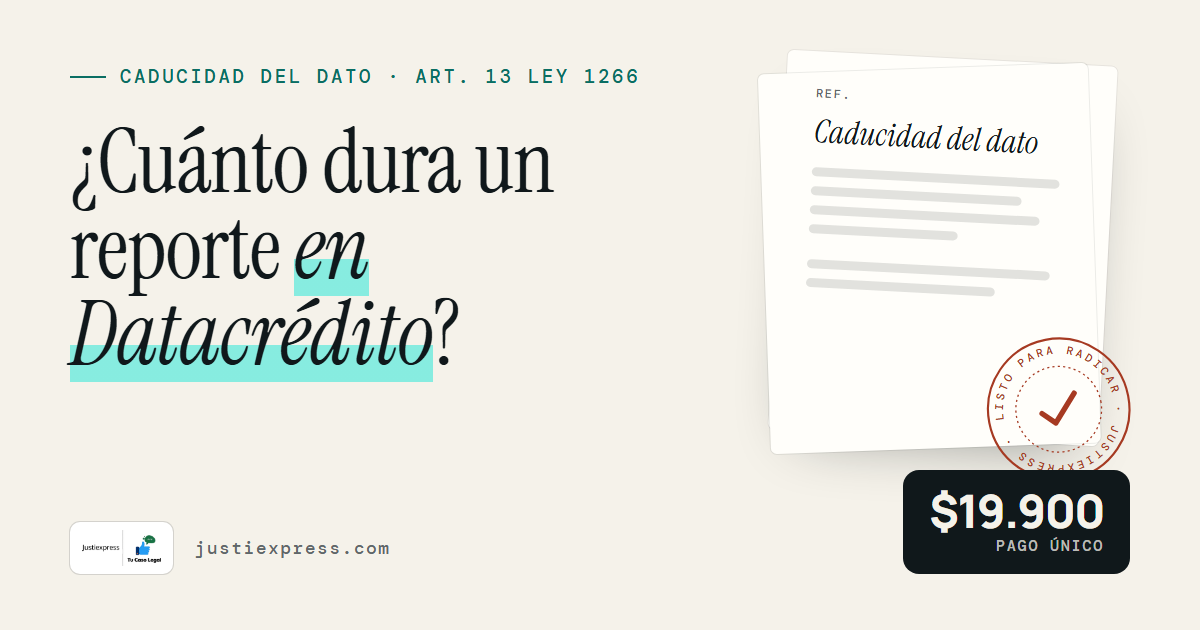
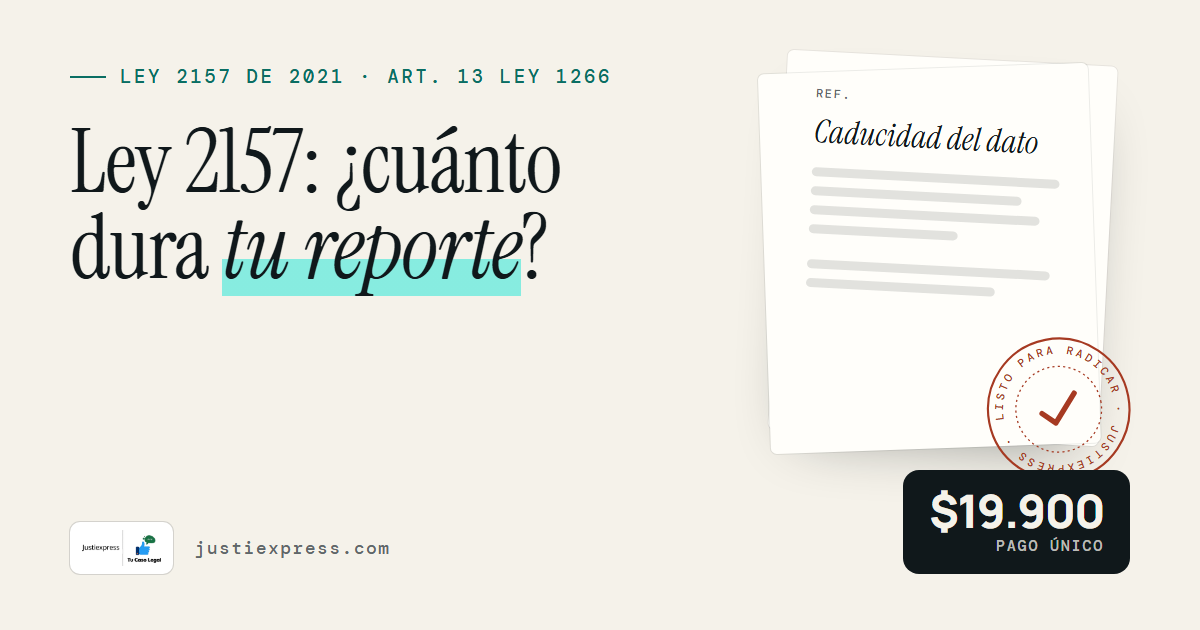
Página 5 rescatada para «ley 2157 de 2021»: título, H1, sección con lo que dice la ley y 4 preguntas nuevas
Medido: ley 2157 de 2021 2.900/mes (+18 %), ley 2157 720 (+130 %), borrón y cuenta nueva en caída.
La URL no cambia (ya indexada). Verificado contra el texto del Senado: arts. 2-10 y 14 de la ley
y los numerales 7 y 8 del art. 16 de la Ley 1266 (modificados por la Ley 2573 de 2026).

Changed region(s): [[0.0308, 0.181, 0.4625, 0.6333], [0.0925, 0.0905, 0.5242, 0.1508]]

diff --git a/caducidad-reporte-datacredito/index.html b/caducidad-reporte-datacredito/index.html
@@ -3,9 +3,9 @@
 <head>
   <meta charset="UTF-8" />
   <meta name="viewport" content="width=device-width, initial-scale=1, viewport-fit=cover" />
-  <title>Cuánto dura un reporte en Datacrédito | Justiexpress</title>
-  <meta name="description" content="Cuánto dura un reporte negativo en Datacrédito: el doble de la mora si pagaste, con máximo 4 años, y caducidad a los 8 años si no. Reclama por $19.900 COP." />
-  <meta name="keywords" content="cuanto dura un reporte negativo en datacredito, caducidad reporte datacredito, a los cuantos años se quita el reporte de datacredito, 8 años datacredito, borron y cuenta nueva" />
+  <title>Ley 2157 de 2021: cuánto dura un reporte | Justiexpress</title>
+  <meta name="description" content="Qué dice la Ley 2157 de 2021: el reporte negativo dura el doble de la mora (máx. 4 años) o caduca a los 8 años. Reclama lo que ya caducó por $19.900 COP." />
+  <meta name="keywords" content="ley 2157 de 2021, ley 2157, que dice la ley 2157 de 2021, cuanto dura un reporte negativo en datacredito, caducidad reporte datacredito, a los cuantos años se quita el reporte de datacredito, 8 años datacredito, borron y cuenta nueva, ley borron y cuenta nueva" />
   <link rel="canonical" href="https://www.justiexpress.com/caducidad-reporte-datacredito/" />
   <meta name="robots" content="index, follow, max-snippet:-1, max-image-preview:large, max-video-preview:-1" />
   <meta name="theme-color" content="#F5F2EA" />
@@ -14,19 +14,19 @@
 
   <meta property="og:type" content="article" />
   <meta property="og:url" content="https://www.justiexpress.com/caducidad-reporte-datacredito/" />
-  <meta property="og:title" content="¿Cuánto dura un reporte negativo en Datacrédito? | Justiexpress" />
-  <meta property="og:description" content="Las dos reglas de la ley, con ejemplos, y qué hacer si ya se cumplió el término y sigues reportado. Reclama en minutos por $19.900 COP." />
+  <meta property="og:title" content="Ley 2157 de 2021: cuánto dura un reporte | Justiexpress" />
+  <meta property="og:description" content="Lo que cambió la Ley 2157 de 2021, las dos reglas de caducidad con ejemplos y qué hacer si ya se cumplió el término. Reclama en minutos por $19.900 COP." />
   <meta property="og:image" content="https://www.justiexpress.com/og/caducidad.png" />
   <meta property="og:image:width" content="1200" />
   <meta property="og:image:height" content="630" />
-  <meta property="og:image:alt" content="Cuánto dura un reporte negativo en Datacrédito" />
+  <meta property="og:image:alt" content="Ley 2157 de 2021: cuánto dura un reporte negativo en Datacrédito" />
   <meta property="og:locale" content="es_CO" />
   <meta property="og:site_name" content="Justiexpress" />
-  <meta property="article:modified_time" content="2026-10-26" />
+  <meta property="article:modified_time" content="2026-11-07" />
   <meta name="twitter:card" content="summary_large_image" />
   <meta name="twitter:site" content="@justiexpress" />
-  <meta name="twitter:title" content="¿Cuánto dura un reporte negativo en Datacrédito? | Justiexpress" />
-  <meta name="twitter:description" content="Las dos reglas de la ley, con ejemplos, y qué hacer si ya se cumplió el término y sigues reportado. Reclama en minutos por $19.900 COP." />
+  <meta name="twitter:title" content="Ley 2157 de 2021: cuánto dura un reporte | Justiexpress" />
+  <meta name="twitter:description" content="Lo que cambió la Ley 2157 de 2021, las dos reglas de caducidad con ejemplos y qué hacer si ya se cumplió el término. Reclama en minutos por $19.900 COP." />
   <meta name="twitter:image" content="https://www.justiexpress.com/og/caducidad.png" />
   <meta name="geo.region" content="CO" />
   <meta name="geo.placename" content="Colombia" />
@@ -84,11 +84,11 @@
         "@type": "WebPage",
         "@id": "https://www.justiexpress.com/caducidad-reporte-datacredito/#webpage",
         "url": "https://www.justiexpress.com/caducidad-reporte-datacredito/",
-        "name": "Cuánto dura un reporte en Datacrédito | Justiexpress",
-        "description": "Cuánto dura un reporte negativo en Datacrédito: el doble de la mora si pagaste, con máximo 4 años, y caducidad a los 8 años si no. Reclama por $19.900 COP.",
+        "name": "Ley 2157 de 2021: cuánto dura un reporte | Justiexpress",
+        "description": "Qué dice la Ley 2157 de 2021: el reporte negativo dura el doble de la mora (máx. 4 años) o caduca a los 8 años. Reclama lo que ya caducó por $19.900 COP.",
         "inLanguage": "es-CO",
         "datePublished": "2026-10-26",
-        "dateModified": "2026-10-26",
+        "dateModified": "2026-11-07",
         "isPartOf": {
           "@id": "https://www.justiexpress.com/#website"
         },
@@ -163,6 +163,38 @@
         "@type": "FAQPage",
         "@id": "https://www.justiexpress.com/caducidad-reporte-datacredito/#faq",
         "mainEntity": [
+          {
+            "@type": "Question",
+            "name": "¿Qué dice la Ley 2157 de 2021?",
+            "acceptedAnswer": {
+              "@type": "Answer",
+              "text": "Es una ley estatutaria, publicada el 29 de octubre de 2021, que modifica la Ley 1266 de 2008 de hábeas data financiero. Fija que el dato negativo dura el doble de la mora, con un máximo de cuatro años desde el pago, y caduca a los ocho años desde que entraste en mora. Además exige una comunicación previa antes de reportarte, limita a 18 meses el plazo para reportar la mora, prohíbe negar un crédito solo por el reporte negativo, hace gratuita tu consulta y crea alertas gratuitas contra la suplantación."
+            }
+          },
+          {
+            "@type": "Question",
+            "name": "¿Sigue vigente el «borrón y cuenta nueva»?",
+            "acceptedAnswer": {
+              "@type": "Answer",
+              "text": "No. Era el régimen de transición del artículo 9 de la Ley 2157: quien extinguía sus obligaciones dentro de los doce meses siguientes a la vigencia de la ley salía del reporte a los seis meses del pago, y algunos grupos —mipymes, pequeños productores agropecuarios, deudores del Icetex— salían de inmediato. Ese plazo venció en octubre de 2022. Hoy rige la regla permanente del artículo 13 de la Ley 1266, tal como la modificó la Ley 2157."
+            }
+          },
+          {
+            "@type": "Question",
+            "name": "¿Me tienen que avisar antes de reportarme?",
+            "acceptedAnswer": {
+              "@type": "Answer",
+              "text": "Sí. La Ley 2157 exige comunicación previa al titular antes de reportar un dato negativo. Si la entidad reportó sin avisarte y la deuda ya estaba extinguida, el reporte debe retirarse de inmediato; si la deuda sigue viva, debe retirarlo, enviarte la comunicación y solo después volver a reportar. En obligaciones de hasta el 15 % de un salario mínimo se exigen al menos dos comunicaciones en días diferentes y 20 días calendario entre la última y el reporte."
+            }
+          },
+          {
+            "@type": "Question",
+            "name": "¿Pueden negarme un crédito solo porque estoy reportado?",
+            "acceptedAnswer": {
+              "@type": "Answer",
+              "text": "No basándose exclusivamente en el reporte negativo. El parágrafo 1 del artículo 10 de la Ley 1266, modificado por la Ley 2157, obliga a valorar esa información junto con otros factores del estudio de riesgo, y si una entidad financiera te rechaza, a solicitud tuya debe indicarte por escrito las razones objetivas. La Superintendencia Financiera puede sancionar a quien niegue un crédito solo por el reporte."
+            }
+          },
           {
             "@type": "Question",
             "name": "¿A los cuántos años se quita el reporte de Datacrédito?",
@@ -292,8 +324,8 @@
     <div class="wrap hero__grid">
       <div class="hero__copy">
         <p class="eyebrow mono">Caducidad del dato · Art. 13 Ley 1266 · Ley 2157 de 2021</p>
-        <h1 class="hero__title" id="hero-title">¿Cuánto dura un reporte negativo <em class="hl hl--draw">en Datacrédito</em>?</h1>
-        <p class="hero__lede">Depende de si pagaste. Si pagaste, el dato negativo dura el doble del tiempo que estuviste en mora, con un máximo de cuatro años desde el pago. Si no pagaste, caduca a los ocho años de haber entrado en mora y debe eliminarse, aunque la deuda siga sin pagarse (artículo 13 de la Ley 1266, modificado por la Ley 2157 de 2021). Si ya se cumplió el término y sigues apareciendo, puedes exigir que lo borren. <strong>El asistente redacta la reclamación en minutos y pagas $19.900 COP solo cuando está lista.</strong></p>
+        <h1 class="hero__title" id="hero-title">Ley 2157 de 2021: ¿cuánto dura <em class="hl hl--draw">tu reporte en Datacrédito</em>?</h1>
+        <p class="hero__lede">La Ley 2157 de 2021, el «borrón y cuenta nueva», fijó cuánto dura un reporte negativo, y depende de si pagaste. Si pagaste, el dato negativo dura el doble del tiempo que estuviste en mora, con un máximo de cuatro años desde el pago. Si no pagaste, caduca a los ocho años de haber entrado en mora y debe eliminarse, aunque la deuda siga sin pagarse (artículo 13 de la Ley 1266, modificado por la Ley 2157 de 2021). Si ya se cumplió el término y sigues apareciendo, puedes exigir que lo borren. <strong>El asistente redacta la reclamación en minutos y pagas $19.900 COP solo cuando está lista.</strong></p>
         <div class="hero__cta">
           <a class="btn btn--primary btn--lg" href="https://chat.justiexpress.com/?categoria=centrales-riesgo" data-chat>Hacer mi reclamación <svg class="icon icon--go" aria-hidden="true"><use href="/assets/icons.svg#i-arrow"/></svg></a>
           <a class="btn btn--ghost btn--lg" href="https://api.whatsapp.com/send?phone=573185725324&amp;text=Hola%20Justiexpress%2C%20mi%20reporte%20en%20Datacr%C3%A9dito%20ya%20deber%C3%ADa%20haber%20caducado" target="_blank" rel="noopener noreferrer"><svg class="icon icon--fill" aria-hidden="true"><use href="/assets/icons.svg#i-wa"/></svg> Preguntar por WhatsApp</a>
@@ -304,7 +336,7 @@
           <span class="receipt__terms"><strong>Pago único</strong>, sin costos ocultos.<br />Nequi, Bancolombia, PSE o Daviplata.</span>
         </div>
         <ul class="hero__trust"><li><svg class="icon" aria-hidden="true"><use href="/assets/icons.svg#i-clock"/></svg>Caducidad a los 8 años</li><li><svg class="icon" aria-hidden="true"><use href="/assets/icons.svg#i-shield"/></svg>Sin abogado ni notaría</li><li><svg class="icon" aria-hidden="true"><use href="/assets/icons.svg#i-map"/></svg>Todo Colombia</li></ul>
-        <p class="actualizado mono">Actualizado el <time datetime="2026-10-26">26 de octubre de 2026</time></p>
+        <p class="actualizado mono">Actualizado el <time datetime="2026-11-07">7 de noviembre de 2026</time></p>
       </div>
 
       <div class="doc-stage" role="img" aria-label="Ejemplo: a partir del mensaje «Me reportaron hace 9 años y no se ha borrado», el asistente redacta una reclamación por caducidad del dato">
@@ -335,10 +367,22 @@
     </div>
   </section>
 
+  <section class="section section--alt" id="ley" aria-labelledby="ley-title">
+    <div class="wrap">
+      <header class="head">
+        <p class="head__kicker mono"><b>§ 01</b> Qué dice la ley</p>
+        <h2 class="h2" id="ley-title">Lo que cambió <em>la Ley 2157 de 2021</em>.</h2>
+        <p class="head__intro">Es una ley estatutaria, publicada el 29 de octubre de 2021, que modifica la Ley 1266 de 2008 de hábeas data financiero. Se la conoce como «borrón y cuenta nueva», pero ese beneficio fue solo una parte transitoria. Esto es lo que quedó para todos.</p>
+      </header>
+      <ol class="anatomy__list" role="list"><li><h3>Cuánto dura el dato negativo</h3><p>Artículo 3. El dato positivo permanece sin límite. El negativo dura el doble del tiempo de la mora, con un máximo de cuatro años desde que pagas o se extingue la deuda, y caduca a los ocho años desde que entraste en mora, aunque no hayas pagado. <a href="#reglas">Las dos reglas, con ejemplos.</a></p></li><li><h3>Te tienen que avisar antes de reportarte</h3><p>Artículo 6. Si la entidad reportó sin la comunicación previa y la deuda ya estaba extinguida, el reporte negativo debe retirarse de inmediato; si la deuda sigue viva, debe retirarlo, comunicarte y solo después volver a reportar. En deudas de hasta el 15 % de un salario mínimo hacen falta al menos dos comunicaciones en días diferentes y 20 días calendario entre la última y el reporte (parágrafo 2 del artículo 3).</p></li><li><h3>Máximo 18 meses para reportar la mora</h3><p>Artículo 4. Las fuentes deben reportar la información negativa a más tardar 18 meses después de que el titular entró en mora.</p></li><li><h3>No te pueden negar un crédito solo por el reporte</h3><p>Artículo 5. Quien decide un crédito debe valorar el reporte junto con otros factores, y si una entidad financiera te rechaza, a solicitud tuya debe decirte por escrito las razones objetivas. La Superintendencia Financiera puede sancionar al que niegue basándose solo en el reporte negativo.</p></li><li><h3>Consultar tu historial es gratis y no te castiga</h3><p>Artículo 5. La consulta del titular es gratuita, por todos los medios y en toda ocasión. Revisar tu historial no puede bajar tu calificación y nadie puede consultarlo para decidir sobre un empleo.</p></li><li><h3>Alertas gratis contra la suplantación</h3><p>Artículo 10. Los operadores deben ofrecer una aplicación digital y gratuita para que registres tu correo y recibas aviso, dentro de cinco días hábiles, cuando se reporte una obligación nueva a tu nombre. Si ya te reportaron una que no es tuya, mira <a href="/suplantacion-datacredito/">qué hacer ante una suplantación.</a></p></li><li><h3>Si no te responden, se entiende a tu favor</h3><p>Artículo 7. Las peticiones y reclamos deben resolverse en 15 días hábiles, prorrogables por ocho más; sin respuesta, se entienden resueltos a favor del titular, y puedes acudir a la Superintendencia de Industria y Comercio o a la Financiera, que pueden multar hasta con 2.000 salarios mínimos mensuales (artículo 14). La Ley 2573 de 2026 reformuló este trámite y el de suplantación, y su régimen general rige desde noviembre de 2026.</p></li></ol>
+      <p class="head__intro" style="margin-top:24px"><strong>¿Y el «borrón y cuenta nueva»?</strong> Era el régimen de transición del artículo 9: quien extinguía sus obligaciones dentro de los doce meses siguientes a la vigencia de la ley salía del reporte a los seis meses del pago, y mipymes, pequeños productores agropecuarios y deudores del Icetex salían de inmediato. Ese plazo venció en octubre de 2022.</p>
+    </div>
+  </section>
+
   <section class="section" id="reglas" aria-labelledby="reglas-title">
     <div class="wrap">
       <header class="head">
-        <p class="head__kicker mono"><b>§ 01</b> Las dos reglas</p>
+        <p class="head__kicker mono"><b>§ 02</b> Las dos reglas</p>
         <h2 class="h2" id="reglas-title">Las dos reglas, <em>con ejemplos</em>.</h2>
         <p class="head__intro">Si pagaste, cuenta el doble del tiempo de la mora, con un tope de cuatro años desde el pago. Si no pagaste, ocho años desde que entraste en mora.</p>
       </header>
@@ -370,7 +414,7 @@
   <section class="section section--alt" id="fundamento" aria-labelledby="fundamento-title">
     <div class="wrap">
       <header class="head">
-        <p class="head__kicker mono"><b>§ 02</b> Fundamento legal</p>
+        <p class="head__kicker mono"><b>§ 03</b> Fundamento legal</p>
         <h2 class="h2" id="fundamento-title">Ocho años <em>y el dato caduca</em>.</h2>
       </header>
       <div class="law">
@@ -387,7 +431,7 @@
   <section class="section" id="prescripcion" aria-labelledby="prescripcion-title">
     <div class="wrap">
       <header class="head">
-        <p class="head__kicker mono"><b>§ 03</b> Caducidad y prescripción</p>
+        <p class="head__kicker mono"><b>§ 04</b> Caducidad y prescripción</p>
         <h2 class="h2" id="prescripcion-title">Caducidad <em>no es prescripción</em>.</h2>
       </header>
       <ol class="anatomy__list" role="list"><li><h3>La caducidad borra el reporte</h3><p>Protege tu buen nombre: cumplido el término, el dato negativo no puede seguir circulando.</p></li><li><h3>La prescripción es otra cosa</h3><p>Tiene que ver con si la deuda todavía se puede cobrar ante un juez, y sus plazos dependen del tipo de obligación. Que el reporte caduque no significa que la deuda desaparezca.</p></li><li><h3>Si te reportaron tarde</h3><p>La entidad debe reportar la mora a más tardar 18 meses después de que empezó (art. 8, num. 11, de la Ley 1266). Un reporte hecho después también se puede reclamar.</p></li></ol>
@@ -397,7 +441,7 @@
   <section class="section section--alt" id="como" aria-labelledby="como-title">
     <div class="wrap">
       <header class="head">
-        <p class="head__kicker mono"><b>§ 04</b> Cómo reclamar</p>
+        <p class="head__kicker mono"><b>§ 05</b> Cómo reclamar</p>
         <h2 class="h2" id="como-title">Si ya se cumplió el término, <em>exígelo</em>.</h2>
       </header>
       <ol class="steps" role="list" style="--cols:3"><li class="step"><span class="step__n" aria-hidden="true">1</span><h3>Ubica la fecha de la mora</h3><p>Tu historia de crédito la muestra. Si no la recuerdas exacta, el formulario acepta una fecha aproximada.</p></li><li class="step"><span class="step__n" aria-hidden="true">2</span><h3>Envía la reclamación</h3><p>A la entidad que te reportó y a las dos centrales. Los correos están en la <a href="/derecho-de-peticion-datacredito/#enviar">guía del derecho de petición a Datacrédito</a>.</p></li><li class="step"><span class="step__n" aria-hidden="true">3</span><h3>Si no responden</h3><p>En 15 días hábiles sin respuesta, se entiende resuelta a tu favor (art. 16, num. 8). También puedes <a href="https://chat.justiexpress.com/?categoria=tutela-habeas-data" target="_blank" rel="noopener">armar una tutela de hábeas data</a>.</p></li></ol>
@@ -408,12 +452,16 @@
   <section class="section" id="preguntas" aria-labelledby="faq-title">
     <div class="wrap faq">
       <div class="faq__side">
-        <p class="mono" style="color:var(--teal)">§ 05 Preguntas frecuentes</p>
+        <p class="mono" style="color:var(--teal)">§ 06 Preguntas frecuentes</p>
         <h2 class="h2" id="faq-title" style="margin-top:12px">Lo que todos <em>preguntan</em>.</h2>
         <p>¿Tu duda no está aquí? Pregúntale al asistente en el chat o escríbenos por WhatsApp.</p>
         <a class="btn btn--ghost" href="https://api.whatsapp.com/send?phone=573185725324&amp;text=Hola%20Justiexpress%2C%20mi%20reporte%20en%20Datacr%C3%A9dito%20ya%20deber%C3%ADa%20haber%20caducado" target="_blank" rel="noopener noreferrer"><svg class="icon icon--fill" aria-hidden="true"><use href="/assets/icons.svg#i-wa"/></svg> Preguntar por WhatsApp</a>
       </div>
       <div class="faq__list">
+        <details class="faq__item"><summary>¿Qué dice la Ley 2157 de 2021?</summary><div class="faq__a"><p>Es una ley estatutaria, publicada el 29 de octubre de 2021, que modifica la Ley 1266 de 2008 de hábeas data financiero. Fija que el dato negativo dura el doble de la mora, con un máximo de cuatro años desde el pago, y caduca a los ocho años desde que entraste en mora. Además exige una comunicación previa antes de reportarte, limita a 18 meses el plazo para reportar la mora, prohíbe negar un crédito solo por el reporte negativo, hace gratuita tu consulta y crea alertas gratuitas contra la suplantación.</p></div></details>
+        <details class="faq__item"><summary>¿Sigue vigente el «borrón y cuenta nueva»?</summary><div class="faq__a"><p>No. Era el régimen de transición del artículo 9 de la Ley 2157: quien extinguía sus obligaciones dentro de los doce meses siguientes a la vigencia de la ley salía del reporte a los seis meses del pago, y algunos grupos —mipymes, pequeños productores agropecuarios, deudores del Icetex— salían de inmediato. Ese plazo venció en octubre de 2022. Hoy rige la regla permanente del artículo 13 de la Ley 1266, tal como la modificó la Ley 2157.</p></div></details>
+        <details class="faq__item"><summary>¿Me tienen que avisar antes de reportarme?</summary><div class="faq__a"><p>Sí. La Ley 2157 exige comunicación previa al titular antes de reportar un dato negativo. Si la entidad reportó sin avisarte y la deuda ya estaba extinguida, el reporte debe retirarse de inmediato; si la deuda sigue viva, debe retirarlo, enviarte la comunicación y solo después volver a reportar. En obligaciones de hasta el 15 % de un salario mínimo se exigen al menos dos comunicaciones en días diferentes y 20 días calendario entre la última y el reporte.</p></div></details>
+        <details class="faq__item"><summary>¿Pueden negarme un crédito solo porque estoy reportado?</summary><div class="faq__a"><p>No basándose exclusivamente en el reporte negativo. El parágrafo 1 del artículo 10 de la Ley 1266, modificado por la Ley 2157, obliga a valorar esa información junto con otros factores del estudio de riesgo, y si una entidad financiera te rechaza, a solicitud tuya debe indicarte por escrito las razones objetivas. La Superintendencia Financiera puede sancionar a quien niegue un crédito solo por el reporte.</p></div></details>
         <details class="faq__item"><summary>¿A los cuántos años se quita el reporte de Datacrédito?</summary><div class="faq__a"><p>Si pagaste, a más tardar cuatro años después del pago: el doble del tiempo de la mora, con ese tope. Si no pagaste, a los ocho años de haber entrado en mora.</p></div></details>
         <details class="faq__item"><summary>¿Si no pago, me quedo reportado para siempre?</summary><div class="faq__a"><p>No. El dato negativo caduca a los ocho años contados desde que entraste en mora y debe eliminarse, aunque no hayas pagado (parágrafo 1 del artículo 13 de la Ley 1266).</p></div></details>
         <details class="faq__item"><summary>¿La caducidad borra la deuda?</summary><div class="faq__a"><p>No. Borra el reporte. Si la deuda todavía se puede cobrar es otra figura, la prescripción, que depende del tipo de obligación.</p></div></details>
@@ -428,7 +476,7 @@
   <section class="section section--tight" aria-labelledby="rel-title">
     <div class="wrap">
       <header class="head">
-        <p class="head__kicker mono"><b>§ 06</b> Sigue tu caso</p>
+        <p class="head__kicker mono"><b>§ 07</b> Sigue tu caso</p>
         <h2 class="h2" id="rel-title">También te <em>puede servir</em>.</h2>
       </header>
       <ul class="related" role="list"><li><a href="/derecho-de-peticion-datacredito/"><span class="mono">Todas las vías</span><strong>Derecho de petición a Datacrédito</strong><span>A quién se envía, a qué correo y los plazos de respuesta.</span></a></li><li><a href="/pague-y-sigo-reportado/"><span class="mono">Ya pagaste</span><strong>Pagué y sigo reportado</strong><span>Cuándo debe salir el reporte después del pago.</span></a></li><li><a href="/suplantacion-datacredito/"><span class="mono">La deuda no es tuya</span><strong>Suplantación de identidad</strong><span>Cuando te reportan por un crédito que nunca sacaste.</span></a></li></ul>
